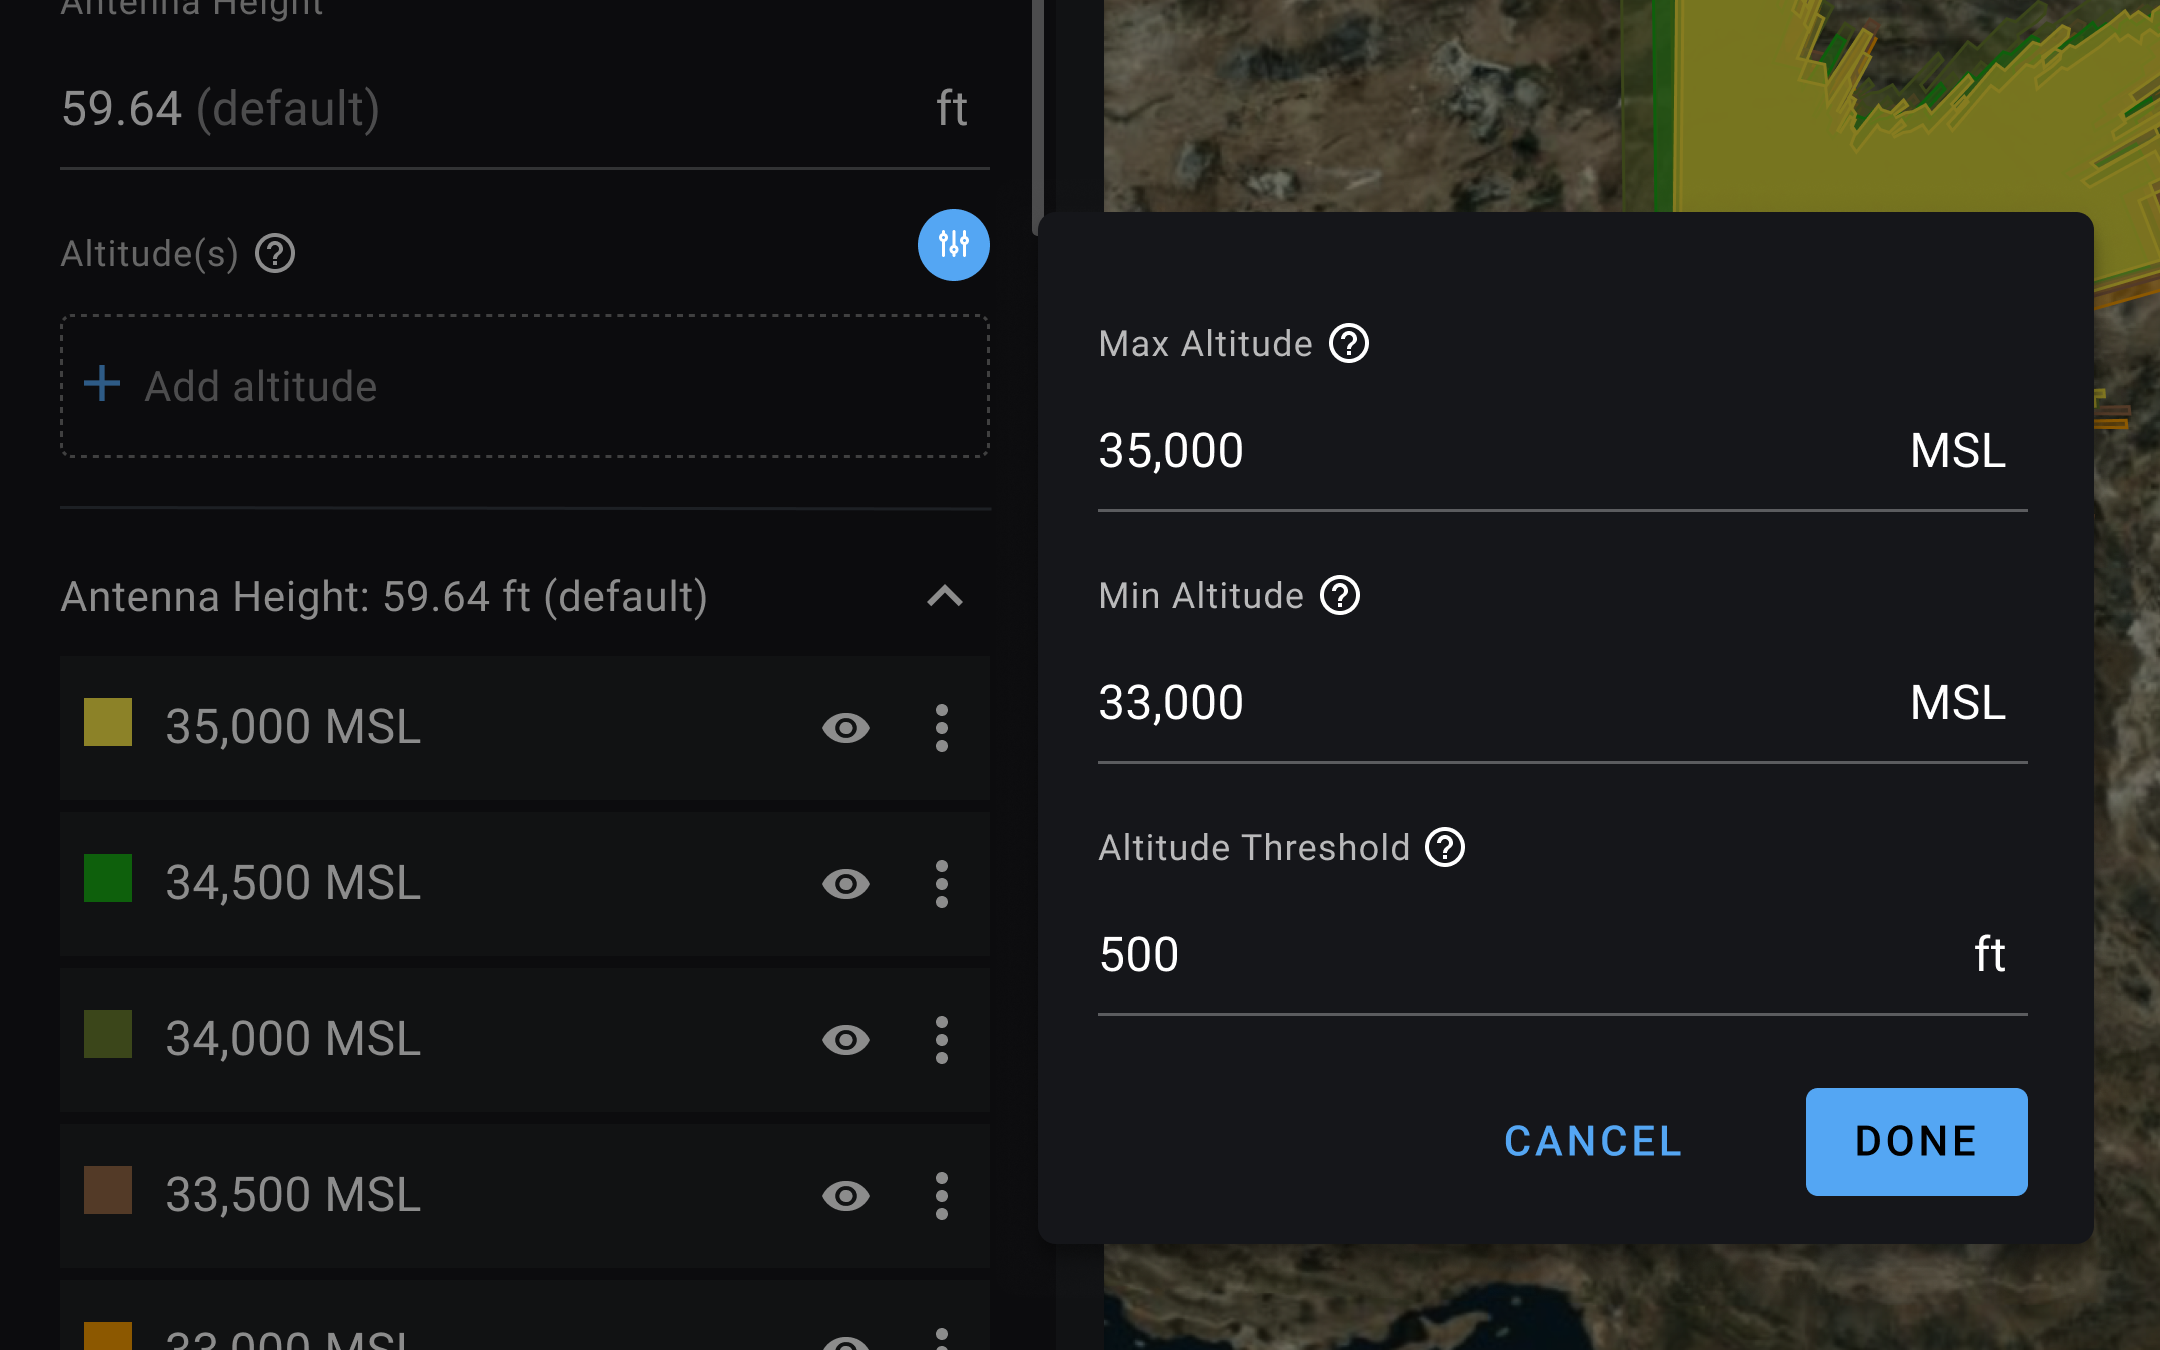
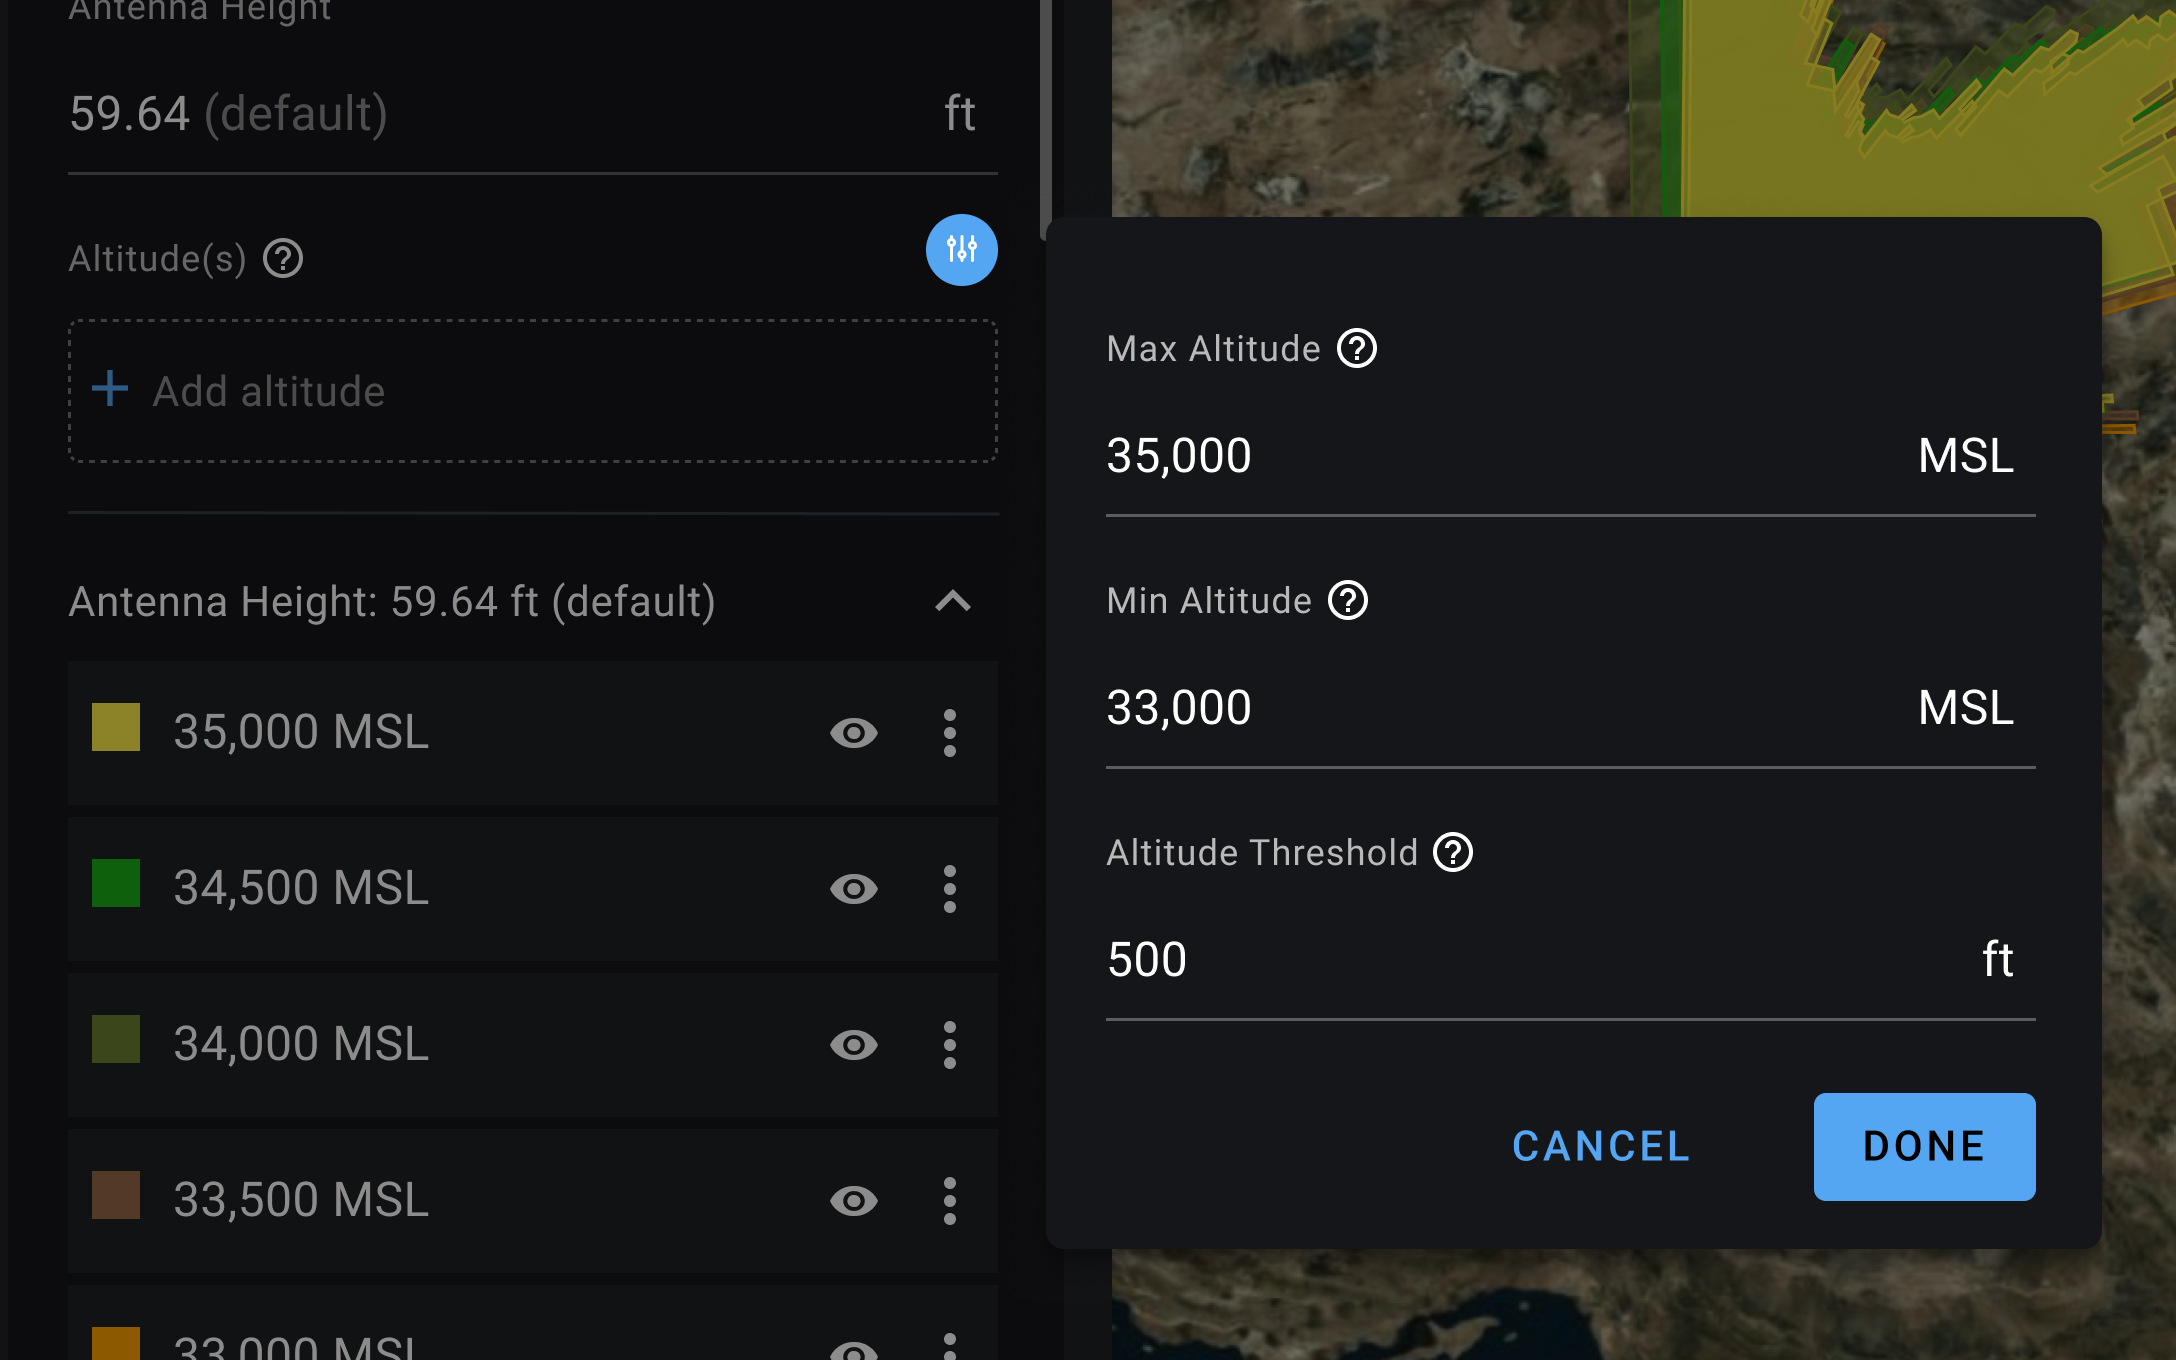
Re-sequence Dagr section 4 into the walk and re-aim section 3 into it
Section 4 rendered six panel states in file order, five of the six
panel-dominant, so the section read as a form rather than as work. It now
opens on the tap and alternates map and panel: Quickview, the two panel
states, the formula dialog, the answers on the terrain, the layer menu.
Section 3's heading, lede and three paragraphs are replaced so they hand
into that, and its bolded answer becomes "So the map is where a Line of
Sight analysis starts."

Section 4 keeps its prose. That is the point of difference from FDT-E's
gate walk, which is a heading, a lede and eight tiles with no prose.

Composition, five rows, no row mixing aspects: the 04-01 band, then
[standard, standard] at 0.750, then [feature] and [feature] at 1.600
(overrideRows chunks at SLOT_COLS and feature's cols is 1), then the
04-07 band.

04-05-undo is cut from the section. It is a refinement state, not a step
in the walk. The file stays on disk and in the crops staging manifest;
cutting it here makes public/case-studies/us-navy-dagr/04-05-undo.png an
orphan alongside the four works-*.png, for their cleanup commit.

04-03-formula is re-cut from imom/0.0 18.png, box (232, 875, 2408, 2235),
2176x1360, and moved from wide to feature. Cutting 04-05 would have left
it a lone wide, which does not orphan at half width but stretches:
overrideRows emits a row of length 1, data-cols='1' takes a single 1fr
column, so it would render at the full 1088 container while
[…]

diff --git a/components/case-studies/us-navy-dagr/AnalysisBento.tsx b/components/case-studies/us-navy-dagr/AnalysisBento.tsx
@@ -2,9 +2,10 @@ import ResolutionsBento, { type ResolutionsManifest } from '../uscg-bard/Resolut
 import manifest from './analysis-manifest.json';
 
 /**
- * Analysis flow, section 04. One radar, one altitude, one shape: the antenna height
- * that arrives with the tap, the altitude formula, five altitudes as five polygons,
- * and the layer menu that sets one of them as the mission altitude.
+ * Analysis flow, section 04. The walk Wilbur actually takes: the tap that opens a
+ * threat's record, the antenna height that arrives with it, a second height that
+ * starts its own group, the altitude formula, the answers drawn on the terrain, and
+ * the layer menu that sets one of them as the mission altitude.
  *
  * Binds analysis-manifest.json to the generic ResolutionsBento adapter, the same one
  * Nuuly's AppsBento and FDT-E's GateWalkBento use. Named for what it shows, matching
@@ -12,9 +13,11 @@ import manifest from './analysis-manifest.json';
  *
  * THE SCAFFOLD PASS IS OVER. This started as four <BentoItem>s lifted out of the MDX
  * with their strings copied byte for byte, deliberately changing nothing a reader could
- * see, so that the real work would be a data change. It was: the crop pass then swapped
- * all four uncropped 2880x1800 screenshots for six approved crops and rewrote every
- * caption, and this file did not change. That is the scaffold paying for itself.
+ * see, so that the real work would be a data change. It has been that twice since: the
+ * crop pass swapped all four uncropped 2880x1800 screenshots for six approved crops and
+ * rewrote every caption, and the re-sequence pass then reordered the section into the
+ * walk, cut a tile, added another and re-cut a third. This file changed only its comment
+ * either time. That is the scaffold paying for itself.
  *
  * WHY THE GENERIC ADAPTER AND NOT Resolutions01Bento, since the original brief pointed
  * at the BARD file: the legacy path reads a single caption string and splits it at the
@@ -23,15 +26,17 @@ import manifest from './analysis-manifest.json';
  * the only one that preserves them without a round trip through a split that would
  * re-punctuate them. See the manifest's $adapterDoc.
  *
- * Four things in the manifest that look wrong and are not, each with its own $doc key
+ * Five things in the manifest that look wrong and are not, each with its own $doc key
  * there: every composition entry says mode "light" on a dark-only product, because
  * "light" is the adapter's word for the base stem with no --dark twin; width, height
  * and ratio are recorded for crop planning and the adapter ignores them, so a later
  * pass must re-read them from disk rather than trust them; the six files are numbered
- * 02, 04, 03, 05, 06, 07 and that IS the document order, because the pairs have to
- * share an aspect per row; and the band entry states its breakout and aspect only in
- * `images`, where the adapter actually reads them, rather than mirroring them into the
- * composition the way FDT-E does.
+ * 01, 02, 04, 03, 06, 07 and the sequence is the walk rather than the numbering, with
+ * 05-undo cut from the section but not from the project; 04-03-formula is cut to
+ * exactly 2176x1360 and must not be widened, because feature's retina floor and its
+ * peak legibility are the same number; and the two band entries state their breakout
+ * and aspect only in `images`, where the adapter actually reads them, rather than
+ * mirroring them into the composition the way FDT-E does.
  *
  * The cast: resolveJsonModule widens the JSON's string literals to `string`, so a
  * structurally correct manifest cannot assign to the interface's literal unions. Known

diff --git a/docs/cc-prompt-dagr-s3-s4-rebuild.md b/docs/cc-prompt-dagr-s3-s4-rebuild.md
@@ -1,0 +1,205 @@
+# CC prompt: rebuild Dagr sections 3 and 4
+
+**Depends on `docs/cc-prompt-dagr-walk-crops.md` having run**, which produces the Quickview opening
+tile. Do not start until that crop exists in `~/Desktop/Dagr Case Study/_crops/`.
+
+Section 5 is a separate pass and is not touched here. No other section, no other study.
+
+## What this pass does
+
+Section 4 currently renders six panel states. Five of the six tiles are panel-dominant, which is why
+the section reads as a form rather than as work. This pass **re-sequences it into the order Wilbur
+actually moves through**, opening on the tap and alternating map and panel, and re-aims section 3 so
+it hands into that.
+
+**Section 4 keeps its prose.** That is deliberate and it is the point of difference from FDT-E's
+gate walk, which is a heading, a lede and eight tiles with no prose at all. Dagr's section 4 is a
+prose-led section with a sequenced bento. Do not delete the paragraphs.
+
+## Read first
+
+1. `components/case-studies/us-navy-dagr/analysis-manifest.json` and `AnalysisBento.tsx`.
+2. `components/bento.tsx`, in particular `overrideRows` and `SLOT_SIZES`, and `lib/bento-slots.json`.
+3. `~/Desktop/Dagr Case Study/_crops/manifest.json`.
+
+## 1. Section 3, replaced
+
+Heading, lede and all three paragraphs. Set exactly as written. The bold is deliberate and load
+bearing: the heading is a question, and the house rule is that a question heading needs a bolded
+answer in the body, or the skim layer gets the question and never the insight.
+
+```mdx
+## How do you give an analyst back the hours he spends typing?
+
+<p className="section-lede">Start the analysis where the data already is.</p>
+
+The smart people at Idaho National Laboratory built the line of sight model, and the math is classified. Our team was never going to see inside it, and did not need to. What we owed Wilbur was everything around it that made it easy to use.
+
+I had already built the live data feeds and the filtering onto DoD approved map layers. The filtering lets him narrow to his mission and his airframe, save that setup, and re-run it on a setting he controls. He can still resubmit by hand any time.
+
+**So the map is where a Line of Sight analysis starts.**
+```
+
+## 2. Section 4, heading, lede and prose replaced
+
+Keep `<AnalysisBento />` where it is. Replace everything above it.
+
+```mdx
+## From a tap on the map to a shape he can brief.
+
+<p className="section-lede">The radar he taps brings its own numbers. He supplies the altitude.</p>
+
+Submit, and the answer comes back as a polygon, the ground that radar can see from that height, cut by every ridge in between.
+
+Analysts rarely want one altitude. A maximum, a minimum and a threshold generate the whole band in a single submit.
+
+Each answer is a layer. He can hide it, recolor it to his unit's legend, or mark one as the mission altitude. Comparing two of them is a click rather than a rebuild, and that is the part of the job that is actually analysis.
+```
+
+Three changes from what is live, so you can confirm they landed rather than reverting them as typos:
+
+1. **The first paragraph now starts at "Submit".** Its old opening said the panel wants two things
+   and the first arrives with the tap. The new lede says that, so keeping both repeated it four
+   lines apart.
+2. **"the analyst" becomes Wilbur or he.** Sections 1 and 2 already run Wilbur as the protagonist and
+   section 4 was the only place falling back to a generic noun. `Analysts rarely want one altitude`
+   stays plural, because that is a class fact rather than him.
+3. **The last paragraph no longer says "the one he plans against" or "the rest stay".** The caption
+   on the menu tile says both, and a caption that repeats the prose above it teaches nothing.
+
+## 3. The manifest, six tiles in walk order
+
+`04-05-undo.png` is **cut** from section 4. It stays on disk; it is a refinement state, not a step.
+
+| # | file | what it is |
+| --- | --- | --- |
+| 1 | `04-01-quickview.png` | the tap. New, from the crop pass. |
+| 2 | `04-02-one-number.png` | antenna height prefilled, one altitude typed |
+| 3 | `04-04-two-headers.png` | a second antenna height, its own group |
+| 4 | `04-03-formula.png` | the formula dialog |
+| 5 | `04-06-five-shapes.png` | the answers on the map |
+| 6 | `04-07-menu.png` | Set as Mission Altitude |
+
+### The composition, settled. Five rows.
+
+```
+band      04-01-quickview       the tap
+standard  04-02 + 04-04         one number, then a second antenna height
+feature   04-03-formula         the band in one submit
+feature   04-06-five-shapes     the answers
+band      04-07-menu            Set as Mission Altitude
+```
+
+### `04-03-formula` must be re-cut wider, and this is not conditional
+
+An earlier version of this brief made the re-cut conditional on a lone `wide` orphaning at half
+width. **Your own trace showed it does not orphan: it stretches.** `overrideRows` at
+`bento.tsx:123` emits a row of length 1, `BentoTheme` writes that to `data-cols`, and
+`globals.css:2986` gives `data-cols='1'` a single `1fr` column, so an unpaired `wide` takes the full
+container.
+
+That removes the condition and replaces it with a worse problem. A lone `wide` **renders at 1088
+while still declaring `min(calc(50vw - 2.5rem), 536px)`**, so the browser fetches an image sized for
+a 536px slot and paints it at 1088. Under-declaring renders visibly soft, where the `standard`
+over-declaration found in the last pass only wasted bytes. Same family, opposite sign, and this one
+a reader can see.
+
+So: **re-cut `04-03-formula` from its 4320x2700 source to clear 2176w, and slot it `feature`.** That
+is a widen of an existing box, not an upscale, and the source has the room. Propose the box and
+report it before executing.
+
+**Do not point `crop.py` at `_crops/`.** It writes `manifest.json` into its `output_root` wholesale,
+with no merge and no warning, so running it against that folder replaces fourteen records with one
+and exits 0. Cut into a scratch directory, move the PNG in by hand, and update the single record in
+place. This was found on the Quickview pass and it will keep being true until the tool is fixed.
+
+The measurement behind the slot choice, so you can check it rather than take it: the dialog's own
+field labels occupy a 19 to 26px text band in the current 2160-wide crop. At `feature`'s 1088 that
+renders about 13px. At `wide`'s 536 it renders about 6.5px, which loses `Max Altitude`,
+`Min Altitude` and `Altitude Threshold`, the tile's entire claim.
+
+Report the final rows as a list, with each row's tiles and their shared aspect, and confirm no row
+mixes aspects.
+
+## 4. Captions
+
+`{lead, tail}` on the generic adapter, both fields passed through untouched. Set exactly this.
+
+| tile | lead | tail |
+| --- | --- | --- |
+| `04-01-quickview` | `Quickview.` | `Tapping a threat opens its record, and a Line of Sight analysis starts from here.` |
+| `04-02-one-number` | `Antenna Height.` | `Carried in from the equipment record rather than typed. Wilbur supplies the altitude.` |
+| `04-04-two-headers` | `Grouped by antenna height.` | `A changed height starts its own group, and the default set stays intact.` |
+| `04-03-formula` | `Altitude formula.` | `A maximum, a minimum and a threshold generate the whole band in one submit.` |
+| `04-06-five-shapes` | `Where the difference shows.` | `Each altitude draws its own fan. They overlap almost exactly, and the rim is what changes.` |
+| `04-07-menu` | `Set as Mission Altitude.` | `The one he plans against. The rest stay for comparison.` |
+
+**Two of these are corrections to live copy, not preferences.**
+
+- `04-02` previously ended "The analyst types the altitude and nothing else." The tile beside it
+  shows him editing the antenna height, so "nothing else" was contradicted by its own row.
+- `04-06` previously read "Five altitudes, five shapes. Each polygon is the ground the radar can see
+  from that height, cut by the terrain between." **The list carries six altitudes and the map shows
+  one nested shape**, not five polygons. The caption was wrong twice and is live.
+
+**Alt text is yours**, written from the images rather than from the captions, matched in length and
+specificity to the strings already in the manifest. Every value you name must be legible in the
+crop. Report each string in your report.
+
+## 5. Gates and evidence
+
+`rm -rf .next` first, because `lint:prose` exits 1 only on zero html files and a stale build prints
+PASS. Then `lint:type`, `lint:space`, `lint:color`, `next build`, `lint:interaction`, `lint:prose`
+with its page count, `npx vitest run`.
+
+Then:
+
+- **Rendered width per tile at 1440, 900 and a true 390**, by the same same-origin iframe method as
+  the last pass, named as such. `standard` stays two-up in the 768 to 1023 band and renders 322;
+  `wide` goes one-up and renders 660, wider than its 536 desktop render.
+- **The smallest text a reader is meant to read in each tile**, via
+  `rendered_text = source_text x (rendered_width / crop_width)`, with a verdict at the narrowest.
+- **Section 4's rendered height** at all three widths, before and after.
+
+If a tile fails legibility, stop and report. A re-cut is a crop pass.
+
+## 6. Skim check, and this is the one that decides whether the pass worked
+
+Extract **only** the headings and bolded phrases from the whole study, in page order, and paste the
+flat list. Then answer, from that list alone:
+
+- What problem was being solved?
+- Who for?
+- What failed?
+- What changed, and why?
+
+Section 3's heading is a question. **Confirm its bolded answer is in the extraction**, and say which
+line carries it. If the four questions cannot all be answered from the flat list, report that rather
+than explaining around it.
+
+## 7. Commit
+
+One commit on `case-study/dagr-s3-s4`, merged to main and pushed: the Quickview image, the manifest,
+the MDX edits, and this brief saved to `docs/cc-prompt-dagr-s3-s4-rebuild.md`. Verify with
+`git diff --cached --name-only`. Never staged: `docs/case-study-house-rules.md`, `docs/_to_delete/`,
+`artifacts/`, `Claude outputs/`, any other `docs/cc-prompt-*.md`, the Nuuly plate.
+
+Report the deployed URL, its unauthenticated HTTP status and its `x-robots-tag`, reading deploy
+state from the Vercel API rather than polling.
+
+## What not to do
+
+- Do not touch section 5 or any other section, or any other study.
+- Do not delete section 4's prose paragraphs.
+- Do not re-cut any tile other than `04-03`.
+- Do not delete `04-05-undo.png` from disk or from the crops manifest. It is cut from this section,
+  not from the project.
+- Do not delete the four superseded `works-*.png` images. Still their own cleanup commit.
+- Do not reword, re-punctuate or improve any caption or paragraph above.
+- No em dashes anywhere, commit message included.
+
+## Flag, do not fix
+
+Anything you would change in the copy, one line each, at the end. Two already known, so do not spend
+lines on them: `04-07`'s crop is the moment before the other layers stay on the map, and `Remove`
+carries the hover highlight on that tile.
